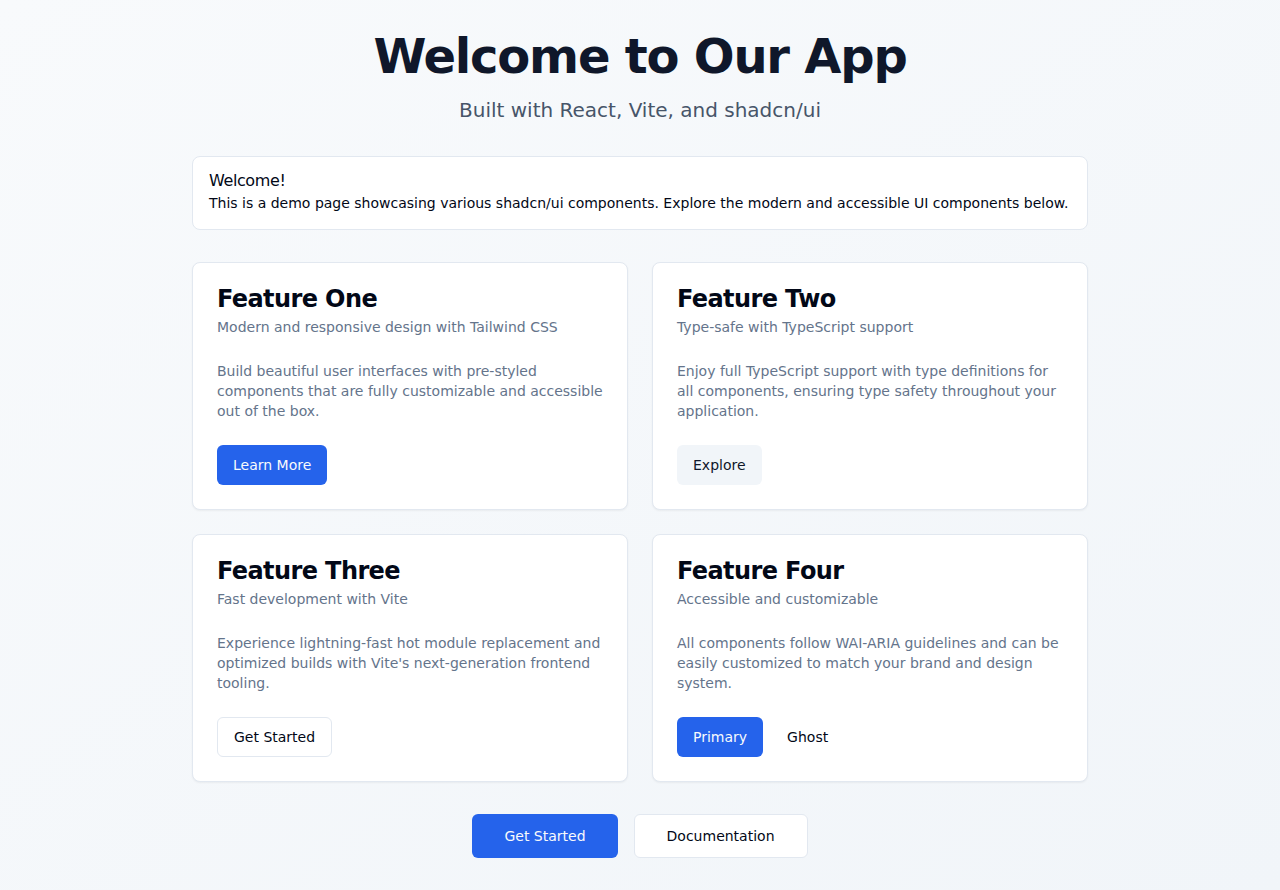
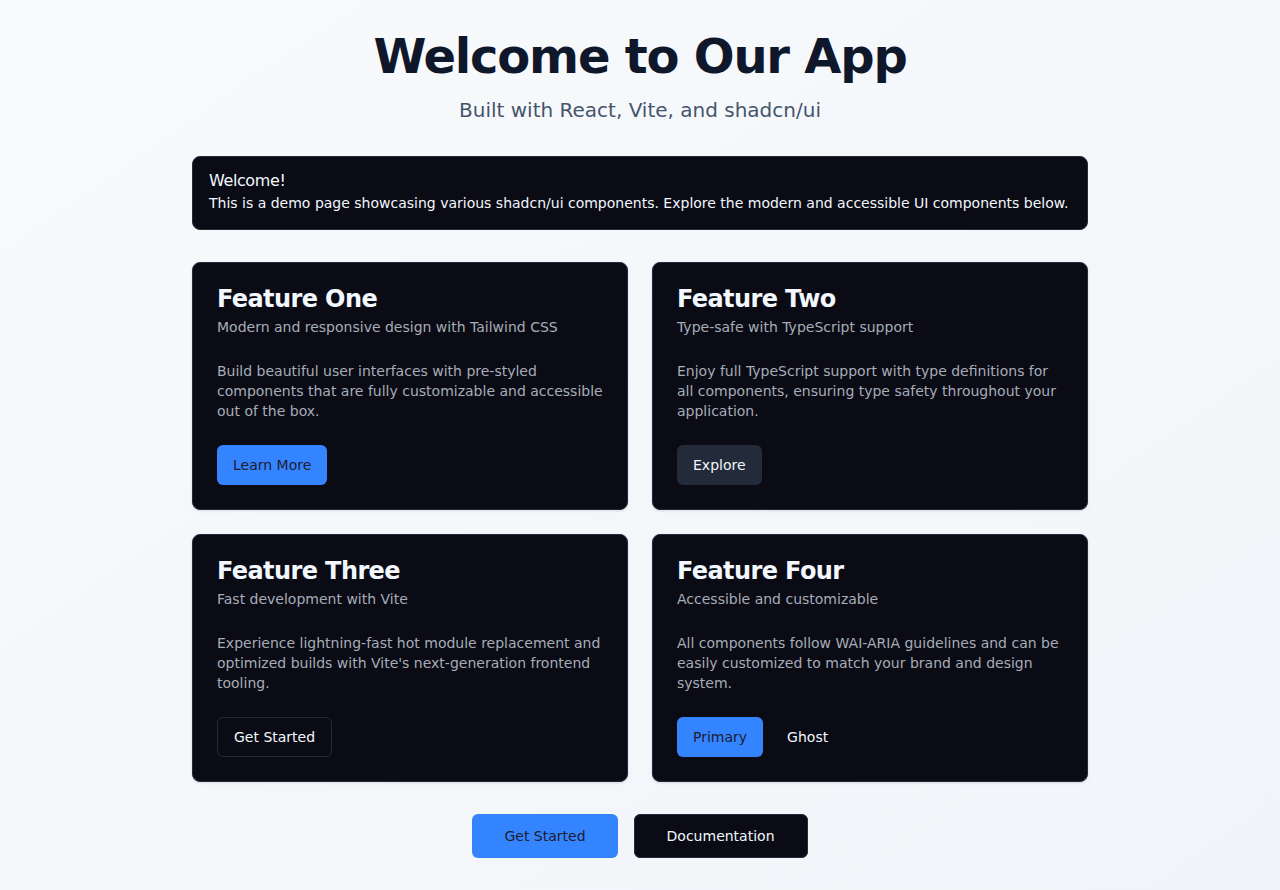
Update README with monorepo structure and Tailwind v4 documentation

diff --git a/README.md b/README.md
@@ -1,44 +1,51 @@
 # agbr-test
 
-A modern React application built with Vite, TypeScript, shadcn/ui, and agent-browser for automated testing.
+A modern React monorepo built with pnpm workspaces, Turborepo, Vite, TypeScript, Tailwind CSS v4, shadcn/ui, and agent-browser for automated testing.
 
-![Welcome Page](screenshots/welcome.png)
+![Welcome Page](apps/web/screenshots/welcome.png)
 
 ## 🚀 Tech Stack
 
-- **React 19.2.0** - Latest React version with improved performance and features
+- **React 19.2** - Latest React version with improved performance and features
 - **Vite 7.3.1** - Next-generation frontend tooling with lightning-fast HMR
 - **TypeScript 5.9.3** - Type-safe development experience
-- **Tailwind CSS 3.x** - Utility-first CSS framework
+- **Tailwind CSS v4.1** - Latest version with CSS-first configuration and OKLCH colors
 - **shadcn/ui** - Beautiful, accessible UI components built with Radix UI
 - **agent-browser** - Browser automation CLI for AI agents and testing
+- **pnpm workspaces** - Fast, disk space efficient package manager
+- **Turborepo** - High-performance build system for monorepos
 
-## 📦 Dependencies
+## 📦 Monorepo Structure
 
-### Core Dependencies
-- `react` (^19.2.0)
-- `react-dom` (^19.2.0)
-
-### UI Components
-- `@radix-ui/react-slot` - Radix UI primitives
-- `class-variance-authority` - CVA for component variants
-- `clsx` - Utility for constructing className strings
-- `tailwind-merge` - Merge Tailwind CSS classes without conflicts
-- `lucide-react` - Beautiful icon library
-
-### Development Tools
-- `@vitejs/plugin-react` (^5.1.1)
-- `tailwindcss` (^3)
-- `tailwindcss-animate` - Animation utilities
-- `autoprefixer` - PostCSS plugin for vendor prefixes
-- `postcss` - CSS transformations
-- `agent-browser` - Browser automation for screenshots and testing
+```
+agbr-test/
+├── .agents/                    # Agent skills
+│   └── skills/
+│       └── agent-browser/      # Installed agent-browser skill
+├── apps/
+│   └── web/                    # Main React application
+│       ├── src/
+│       │   ├── components/ui/  # shadcn/ui components
+│       │   ├── lib/            # Utility functions
+│       │   ├── App.tsx
+│       │   ├── Welcome.tsx
+│       │   └── index.css       # Tailwind v4 with @theme
+│       ├── screenshots/        # Application screenshots
+│       ├── package.json
+│       ├── tailwind.config.ts  # Tailwind v4 config
+│       └── vite.config.ts      # With @tailwindcss/vite plugin
+├── browser-testing/            # Browser automation scripts
+│   └── take-screenshot.sh      # Screenshot capture script
+├── pnpm-workspace.yaml         # pnpm workspace config
+├── turbo.json                  # Turborepo configuration
+└── package.json                # Root workspace package.json
+```
 
 ## 🛠 Setup & Installation
 
 ### Prerequisites
-- Node.js (16+ recommended)
-- npm or pnpm
+- Node.js 18+ 
+- pnpm 9+ (will be installed automatically if using packageManager field)
 
 ### Installation
 
@@ -50,80 +57,111 @@ cd agbr-test
 
 2. Install dependencies:
 ```bash
-npm install
+pnpm install
 ```
 
 3. Install browser automation tools:
 ```bash
+cd apps/web
 npx agent-browser install
 ```
 
 ## 🚀 Development
 
-Start the development server:
+Start the development server (from root):
 ```bash
-npm run dev
+pnpm dev
+# or for specific app
+pnpm --filter web dev
 ```
 
 The application will be available at `http://localhost:5173`
 
 ## 🏗 Build
 
-Build for production:
+Build all apps:
 ```bash
-npm run build
+pnpm build
+```
+
+Build specific app:
+```bash
+pnpm --filter web build
 ```
 
 Preview production build:
 ```bash
-npm run preview
+cd apps/web
+pnpm preview
 ```
 
 ## 🧹 Linting
 
-Run ESLint:
+Run ESLint on all apps:
 ```bash
-npm run lint
+pnpm lint
+```
+
+Run linting for specific app:
+```bash
+pnpm --filter web lint
 ```
 
 ## 📸 Screenshots
 
 Take a screenshot of the welcome page:
 ```bash
-./take-screenshot.sh
+./browser-testing/take-screenshot.sh
 ```
 
 This script will:
 1. Start the Vite dev server
 2. Open the application in a headless browser
 3. Capture a full-page screenshot
-4. Save it to `screenshots/welcome.png`
+4. Save it to `apps/web/screenshots/welcome.png`
 
-## 📁 Project Structure
+## 🎨 Tailwind CSS v4
 
+This project uses Tailwind CSS v4 with the following features:
+
+- **CSS-first configuration** - No more `tailwind.config.js` in the old format
+- **@theme directive** - Define design tokens in CSS using `@theme {}`
+- **OKLCH color space** - Better color manipulation and perceptual uniformity
+- **@tailwindcss/vite plugin** - Direct Vite integration without PostCSS
+- **Automatic content detection** - No need to specify content paths
+
+### Tailwind v4 Setup
+
+The configuration is in `apps/web/src/index.css`:
+```css
+@import "tailwindcss";
+
+@theme {
+  --color-primary: oklch(56.55% 0.2053 262.88);
+  --color-background: oklch(100% 0 0);
+  /* ... more colors */
+}
 ```
-agbr-test/
-├── public/              # Static assets
-├── screenshots/         # Application screenshots
-├── src/
-│   ├── components/
-│   │   └── ui/         # shadcn/ui components
-│   │       ├── alert.tsx
-│   │       ├── button.tsx
-│   │       └── card.tsx
-│   ├── lib/
-│   │   └── utils.ts    # Utility functions
-│   ├── App.tsx         # Main application component
-│   ├── Welcome.tsx     # Welcome page component
-│   ├── index.css       # Global styles with Tailwind
-│   └── main.tsx        # Application entry point
-├── index.html
-├── package.json
-├── tailwind.config.ts  # Tailwind configuration
-├── tsconfig.json       # TypeScript configuration
-├── vite.config.ts      # Vite configuration
-└── take-screenshot.sh  # Screenshot automation script
+
+Colors are automatically available as utilities:
+```tsx
+<div className="bg-primary text-primary-foreground">
+  Tailwind v4 with OKLCH colors!
+</div>
 ```
+
+## 🤖 Agent-Browser Skill
+
+This project includes the agent-browser skill installed via the `skills` CLI:
+- Location: `.agents/skills/agent-browser/`
+- Skill documentation: See `.agents/skills/agent-browser/SKILL.md`
+- Templates available in `.agents/skills/agent-browser/templates/`
+
+The skill provides:
+- Browser automation commands and references
+- Form automation templates
+- Session management examples
+- Video recording workflows
 
 ## 🎨 Features
 
@@ -133,7 +171,13 @@ The welcome page showcases various shadcn/ui components:
 - **Card Components** - Four feature cards with titles, descriptions, and actions
 - **Button Components** - Multiple button variants (default, secondary, outline, ghost)
 - **Responsive Layout** - Grid layout that adapts to different screen sizes
-- **Dark Mode Support** - Built-in dark mode capability (via CSS variables)
+- **Dark Mode Support** - Built-in dark mode capability via CSS variables and prefers-color-scheme
+
+### UI Components
+- Fully accessible components following WAI-ARIA guidelines
+- Customizable through Tailwind CSS utilities
+- Type-safe with TypeScript definitions
+- Consistent design system with CSS variables
 
 ### UI Components
 - Fully accessible components following WAI-ARIA guidelines
@@ -145,26 +189,44 @@ The welcome page showcases various shadcn/ui components:
 
 ### Path Aliases
 The project uses TypeScript path aliases for cleaner imports:
-- `@/*` maps to `./src/*`
+- `@/*` maps to `./apps/web/src/*`
 
 Example:
 ```typescript
 import { Button } from "@/components/ui/button"
 ```
 
-### Tailwind Theme
-Custom theme configuration includes:
-- CSS variables for colors (supporting light/dark modes)
+### Tailwind v4 Theme
+Theme configuration uses the `@theme` directive in CSS:
+- OKLCH color space for better perceptual uniformity
+- CSS variables for colors (supporting light/dark modes via prefers-color-scheme)
 - Custom border radius values
 - Extended color palette for shadcn/ui components
 
+### Turborepo Configuration
+`turbo.json` defines the build pipeline:
+- `build` - Builds all apps with dependency awareness
+- `dev` - Runs dev servers (not cached, persistent)
+- `lint` - Runs linting across all apps
+- `test` - Runs tests with build dependencies
+
 ## 📝 Scripts
 
-- `npm run dev` - Start development server
-- `npm run build` - Build for production
-- `npm run preview` - Preview production build
-- `npm run lint` - Run ESLint
-- `./take-screenshot.sh` - Capture application screenshot
+Root workspace:
+- `pnpm dev` - Start all development servers
+- `pnpm build` - Build all apps
+- `pnpm lint` - Lint all apps
+- `pnpm --filter web dev` - Start web app only
+- `pnpm --filter web build` - Build web app only
+
+Web app (in apps/web):
+- `pnpm dev` - Start development server
+- `pnpm build` - Build for production
+- `pnpm preview` - Preview production build
+- `pnpm lint` - Run ESLint
+
+Browser testing:
+- `./browser-testing/take-screenshot.sh` - Capture application screenshot
 
 ## 🤖 agent-browser Usage
 
@@ -173,12 +235,12 @@ The project includes agent-browser for automated browser interactions:
 ```bash
 # Take a screenshot
 npx agent-browser open http://localhost:5173
-npx agent-browser screenshot --full screenshots/welcome.png
+npx agent-browser screenshot --full apps/web/screenshots/welcome.png
 
 # Get page snapshot (accessibility tree)
 npx agent-browser snapshot
 
-# Click elements
+# Click elements by ref
 npx agent-browser click @ref
 
 # Type into inputs
@@ -191,8 +253,10 @@ This project is private and proprietary.
 
 ## 🙏 Acknowledgments
 
+- [pnpm](https://pnpm.io/) - Fast, disk space efficient package manager
+- [Turborepo](https://turbo.build/) - High-performance build system
 - [Vite](https://vite.dev/) - Build tool
 - [React](https://react.dev/) - UI library
 - [shadcn/ui](https://ui.shadcn.com/) - Component library
-- [Tailwind CSS](https://tailwindcss.com/) - CSS framework
+- [Tailwind CSS v4](https://tailwindcss.com/) - CSS framework
 - [agent-browser](https://github.com/vercel-labs/agent-browser) - Browser automation
